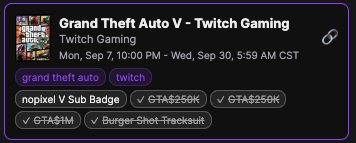
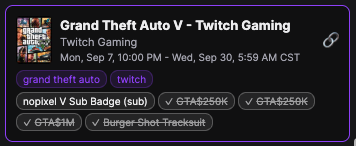
docs(twitch-drops-highlighter): tres capturas al día — el coste en subs, el chip que sale de la API y el emblema concedido

Changed region(s): [[0.0, 0.0, 1.0, 1.0]]

diff --git a/README.md b/README.md
@@ -27,17 +27,17 @@ Userscript that classifies and highlights drops/campaigns on Twitch based on you
 
 *Clicking that same drop opens the full detail: progress in minutes and percent, plus the time remaining. It is the same drop and the same moment as the two shots above — **2 / 30 min · 7%** and the same **28m** — so what the box says on hover and what the detail says agree. / Al hacer clic en ese mismo drop se abre el detalle completo: progreso en minutos y porcentaje, más el tiempo restante. Es el mismo drop y el mismo momento que las dos capturas de arriba —**2 / 30 min · 7%** y los mismos **28m**—, así que lo que dice la caja al pasar el ratón y lo que dice el detalle coinciden.*
 
-<img src="docs/screenshot-keyword.png" width="380" alt="A panel card titled Grand Theft Auto V - Twitch Gaming carrying two keyword chips, grand theft auto and twitch, above five reward chips of which four are ticked and struck through and one, nopixel V Sub Badge, is not">
+<img src="docs/screenshot-keyword.png" width="380" alt="A panel card titled Grand Theft Auto V - Twitch Gaming carrying two keyword chips, grand theft auto and twitch, above five reward chips of which four are ticked and struck through and one, nopixel V Sub Badge (sub), is not">
 
-*Every card says **which keyword found it**, so a card is never there without a reason on it — a card that cannot explain itself is indistinguishable from a filter that has gone wrong. Here both reasons are in plain sight, and they come from different halves of the title: `grand theft auto` from the game and `twitch` from its owner, **Twitch Gaming**. Below them, **what you already own is ticked and struck through one reward at a time** — four here, with **nopixel V Sub Badge** left plain because it is still to be earned. Look at the two **GTA$250K**: it is the same reward handed out at two different watch-time tiers, and each tier keeps its own chip and its own mark, because the tier is the unit you claim. / Cada tarjeta dice **qué palabra clave la encontró**, así que nunca aparece sin un motivo encima — una tarjeta que no se explica no se distingue de un filtro que falla—. Aquí los dos motivos están a la vista, y salen de mitades distintas del título: `grand theft auto` del juego y `twitch` de su propietario, **Twitch Gaming**. Debajo, **lo que ya tienes va con ✓ y tachado, recompensa a recompensa** —cuatro aquí, con **nopixel V Sub Badge** sin marcar porque queda por ganar—. Fíjate en los dos **GTA$250K**: es la misma recompensa repartida en dos tramos de visualización distintos, y cada tramo conserva su propio chip y su propia marca, porque el tramo es lo que se reclama.*
+*Every card says **which keyword found it**, so a card is never there without a reason on it — a card that cannot explain itself is indistinguishable from a filter that has gone wrong. Here both reasons are in plain sight, and they come from different halves of the title: `grand theft auto` from the game and `twitch` from its owner, **Twitch Gaming**. Below them, **what you already own is ticked and struck through one reward at a time** — four here, with **nopixel V Sub Badge (sub)** left plain because it is still to be earned — and it now says *why* it is: it asks for a **subscription**, not for watch time, which is the one cost the panel used to leave blank. Look at the two **GTA$250K**: it is the same reward handed out at two different watch-time tiers, and each tier keeps its own chip and its own mark, because the tier is the unit you claim. / Cada tarjeta dice **qué palabra clave la encontró**, así que nunca aparece sin un motivo encima — una tarjeta que no se explica no se distingue de un filtro que falla—. Aquí los dos motivos están a la vista, y salen de mitades distintas del título: `grand theft auto` del juego y `twitch` de su propietario, **Twitch Gaming**. Debajo, **lo que ya tienes va con ✓ y tachado, recompensa a recompensa** —cuatro aquí, con **nopixel V Sub Badge (sub)** sin marcar porque queda por ganar, y ahora dice *por qué* queda: pide una **suscripción**, no tiempo de visionado, que era el único coste que el panel dejaba en blanco—. Fíjate en los dos **GTA$250K**: es la misma recompensa repartida en dos tramos de visualización distintos, y cada tramo conserva su propio chip y su propia marca, porque el tramo es lo que se reclama.*
 
-<img src="docs/screenshot-keyword-twitch.png" width="380" alt="A panel card titled LEGO Batman: Legacy of the Dark Knight - Warner Bros. Interactive carrying two keyword chips, twitch and batman, even though the word twitch appears nowhere on the card">
+<img src="docs/screenshot-keyword-twitch.png" width="380" alt="A panel card titled Marvel Rivals - Marvel Rivals carrying two keyword chips, marvel and twitch, even though the word twitch appears nowhere on the card, above four reward chips: two ticked and struck through, and two still to be earned at 2 h and 4 h">
 
-*And the case that looks like a bug and is not: **the chip can name a word that is nowhere on the card**. Read this one — «LEGO Batman: Legacy of the Dark Knight», by **Warner Bros. Interactive** — and `batman` is right there, but `twitch` is not, not in the game and not in the owner. It matched the **campaign's own name**, which Twitch keeps in its API and never prints here. The chip is what makes that visible: without it the card would look like it walked in uninvited. Where you see it is on the cards the panel fills **from the API** — the sections you are not standing in front of —, because a row you have on screen explains itself with the text the page shows. / Y el caso que parece un fallo y no lo es: **el chip puede nombrar una palabra que no está en ninguna parte de la tarjeta**. Lee esta —«LEGO Batman: Legacy of the Dark Knight», de **Warner Bros. Interactive**— y `batman` está ahí, pero `twitch` no, ni en el juego ni en el propietario. Casó por el **nombre de la propia campaña**, que Twitch guarda en su API y aquí no imprime nunca. El chip es lo que lo hace visible: sin él, la tarjeta parecería haberse colado sola. Donde se ve es en las tarjetas que el panel llena **desde la API** —las secciones que no tienes delante—, porque una fila que tienes en pantalla se explica con el texto que la página enseña.*
+*And the case that looks like a bug and is not: **the chip can name a word that is nowhere on the card**. Read this one — «Marvel Rivals», by **Marvel Rivals** — and `marvel` is right there twice, but `twitch` is not, not in the game and not in the owner. It matched the **campaign's own name**, which Twitch keeps in its API and never prints here. The chip is what makes that visible: without it the card would look like it walked in uninvited. Where you see it is on the cards the panel fills **from the API** — the sections you are not standing in front of —, because a row you have on screen explains itself with the text the page shows; the short date range is the tell, written by the script rather than copied off the page. Below it, the other half of what a card is for: **every reward carries what it still costs you** — 2 h and 4 h here — and the two you already own are ticked, struck through and stripped of their cost, because the time they used to ask for no longer buys you anything. / Y el caso que parece un fallo y no lo es: **el chip puede nombrar una palabra que no está en ninguna parte de la tarjeta**. Lee esta —«Marvel Rivals», de **Marvel Rivals**— y `marvel` está ahí dos veces, pero `twitch` no, ni en el juego ni en el propietario. Casó por el **nombre de la propia campaña**, que Twitch guarda en su API y aquí no imprime nunca. El chip es lo que lo hace visible: sin él, la tarjeta parecería haberse colado sola. Donde se ve es en las tarjetas que el panel llena **desde la API** —las secciones que no tienes delante—, porque una fila que tienes en pantalla se explica con el texto que la página enseña; la pista es la ventana de fechas corta, que la escribe el script y no se copia de la página. Debajo, la otra mitad de para qué sirve una tarjeta: **cada recompensa lleva lo que todavía te cuesta** —2 h y 4 h aquí— y las dos que ya tienes van con ✓, tachadas y sin coste, porque el tiempo que pedían ya no te compra nada.*
 
-<img src="docs/screenshot-granted-badge.png" width="420" alt="The Pichu badge tile next to the panel card Pokemon - Pokemon, whose chips show an unmarked Great Ball, a ticked and struck-through Poke Ball beside an unmarked Great Ball (20 min), and a ticked, struck-through Pichu">
+<img src="docs/screenshot-granted-badge.png" width="420" alt="The Pichu badge tile next to the panel card Pokemon - Pokemon, whose chips show an unmarked Great Ball (sub), a ticked and struck-through Poke Ball beside an unmarked Great Ball (20 min), and a ticked, struck-through Pichu">
 
-*A **reward campaign hands out containers, not rewards**: a Poké Ball is a box that opens by itself once you have watched enough, and what comes out of it is a chat badge — here **Pichu**, on the left as Twitch shows it. Twitch records the badge and never the ball, so the ball can never be ticked for being in your history; it is ticked by **counting**. Each campaign promises a fixed number of containers — the same number the campaigns page prints as **x3** on a tile — and once it has granted that many, there is nothing left to open. That is why this card carries **two different ticks**: **Poké Ball** is struck through because its campaign promised one and has already given one, while **Pichu** is what came out of it. The two **Great Ball** chips stay unmarked **on purpose** — those campaigns promise three each and have granted none, and marking a box you can still earn would hide it. Look at the title too, because it is the same word spelled two ways: Twitch prints the game as **Pokémon** and its owner as **Pokemon**, and the API calls this very campaign «First Partners Collection - Pokemon», which looks like neither. The card finds its rewards anyway because the match is made on the brand and **accents are folded on both sides** — the same reason the keyword `pokemon`, with no accent, found a campaign that carries one. / Una **campaña de recompensas reparte contenedores, no recompensas**: una Poké Ball es una caja que se abre sola al cumplir el tiempo, y lo que sale de ella es un emblema de chat — aquí **Pichu**, a la izquierda tal y como lo enseña Twitch. Twitch apunta el emblema y nunca la bola, así que la bola no puede marcarse por constar en tu historial: se marca **contando**. Cada campaña promete un número fijo de contenedores —el mismo que la página de campañas escribe como **x3** sobre una tarjeta— y en cuanto ha concedido esa cantidad ya no queda ninguno por abrir. Por eso esta tarjeta lleva **dos ✓ que dicen cosas distintas**: **Poké Ball** sale tachada porque su campaña prometía una y ya ha dado una, y **Pichu** es lo que salió de ella. Los dos chips de **Great Ball** se quedan sin marca **a propósito** —esas campañas prometen tres cada una y no han dado ninguna, y marcar una caja que aún puedes ganar sería esconderla—. Fíjate también en el título, porque es la misma palabra escrita de dos formas: Twitch imprime el juego como **Pokémon** y a su dueño como **Pokemon**, y la API llama a esta misma campaña «First Partners Collection - Pokemon», que no se parece a ninguna de las dos. La tarjeta encuentra sus recompensas igual porque el cruce se hace por la marca y **los acentos se pliegan en los dos lados** — que es lo mismo que hace que la keyword `pokemon`, sin acento, encuentre una campaña que lo lleva.*
+*A **reward campaign hands out containers, not rewards**: a Poké Ball is a box that opens by itself once you have watched enough, and what comes out of it is a chat badge — here **Pichu**, on the left as Twitch shows it. Twitch records the badge and never the ball, so the ball can never be ticked for being in your history; it is ticked by **counting**. What the panel counts is per campaign: once a campaign has handed you something, that box is spent for you and gets struck. That is why this card carries **two different ticks**: **Poké Ball** is struck through because its campaign already gave — and **Pichu** is what came out of it. The two **Great Ball** chips stay unmarked **on purpose**, because their campaigns have given nothing yet, and marking a box you can still earn would hide it. Note what the first one now says it costs: a **sub**. It is the one reward that is not bought with time, and the panel used to leave that chip blank. Look at the title too, because it is the same word spelled two ways: Twitch prints the game as **Pokémon** and its owner as **Pokemon**, and the API calls this very campaign «First Partners Collection - Pokemon», which looks like neither. The card finds its rewards anyway because the match is made on the brand and **accents are folded on both sides** — the same reason the keyword `pokemon`, with no accent, found a campaign that carries one. / Una **campaña de recompensas reparte contenedores, no recompensas**: una Poké Ball es una caja que se abre sola al cumplir el tiempo, y lo que sale de ella es un emblema de chat — aquí **Pichu**, a la izquierda tal y como lo enseña Twitch. Twitch apunta el emblema y nunca la bola, así que la bola no puede marcarse por constar en tu historial: se marca **contando**. Lo que el panel cuenta es por campaña: en cuanto una campaña te ha dado algo, esa caja está gastada para ti y sale tachada. Por eso esta tarjeta lleva **dos ✓ que dicen cosas distintas**: **Poké Ball** sale tachada porque su campaña ya dio, y **Pichu** es lo que salió de ella. Los dos chips de **Great Ball** se quedan sin marca **a propósito**, porque sus campañas no han dado nada todavía, y marcar una caja que aún puedes ganar sería esconderla. Fíjate en lo que el primero dice ahora que cuesta: una **sub**. Es la única recompensa que no se paga con tiempo, y el panel dejaba ese chip en blanco. Fíjate también en el título, porque es la misma palabra escrita de dos formas: Twitch imprime el juego como **Pokémon** y a su dueño como **Pokemon**, y la API llama a esta misma campaña «First Partners Collection - Pokemon», que no se parece a ninguna de las dos. La tarjeta encuentra sus recompensas igual porque el cruce se hace por la marca y **los acentos se pliegan en los dos lados** — que es lo mismo que hace que la keyword `pokemon`, sin acento, encuentre una campaña que lo lleva.*
 
 <img src="docs/screenshot-mystery-badge.png" width="380" alt="A Poke Ball tile labelled MYSTERY BADGE showing 20/20m (Day 1), next to the script's detail box reading Progress: 20 / 20 min, 100%, Day 1 and Time remaining: 0m">
 
